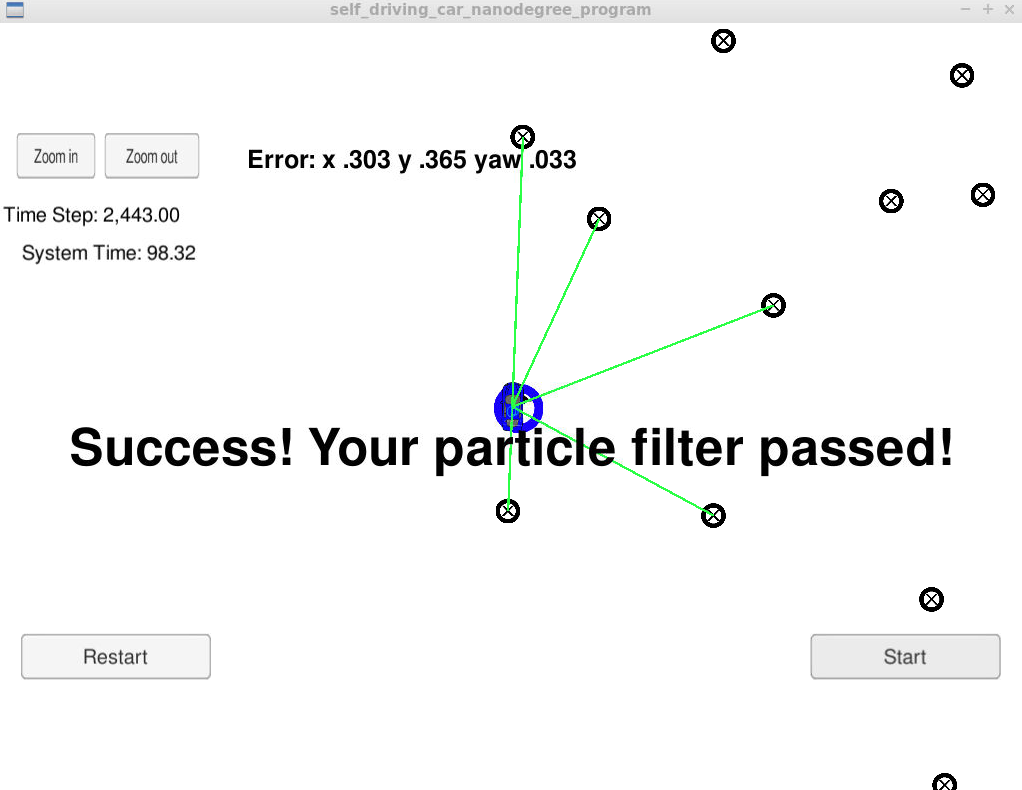
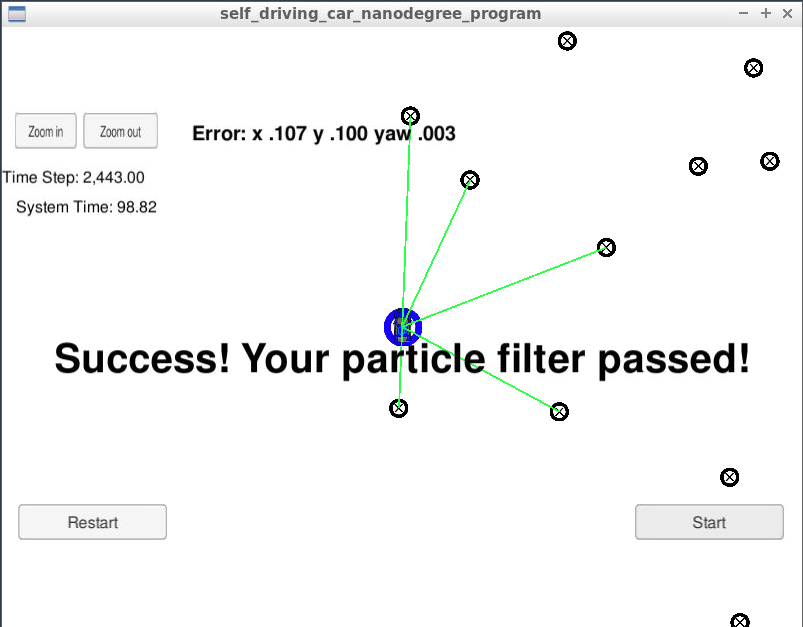
Reduce particles to 750. Update writeup for submission

diff --git a/project-kidnapped_vehicle/src/particle_filter.cpp b/project-kidnapped_vehicle/src/particle_filter.cpp
@@ -25,7 +25,7 @@ using std::normal_distribution;
 
 #define MIN_YAW 0.0001
 // Lesson 4: Particle filters - 12. Creating particles
-#define NUM_PARTICLES 1000
+#define NUM_PARTICLES 750
 
 void ParticleFilter::init(double x, double y, double theta, double std[]) {
 
@@ -177,7 +177,7 @@ void ParticleFilter::updateWeights(double sensor_range, double std_landmark[],
   double rel_dst_prt_lnd_2 = 0;
   double rel_dst_obs_lnd_2 = 0;
   double min_dist_2 = 0;
-  //Map::single_landmark_s *closest = NULL; // Cannot use because of float/double precision issue
+  //Map::single_landmark_s *closest = NULL; // Not using: Float/double precision issue at runtime
   LandmarkObs closest_lnd = { 0,0,0 };
 
 
@@ -200,7 +200,7 @@ void ParticleFilter::updateWeights(double sensor_range, double std_landmark[],
       // Lesson 5: Implementation of a particle filter - 18. Quiz: Association
       // Locate closest landmark to observation      
       // Initialize pointer to closest landmark
-      //*closest = NULL;
+      //*closest = NULL; // Not using: Float/double precision issue at runtime
       closest_lnd.id = -1;
       closest_lnd.x = 0;
       closest_lnd.y = 0;
@@ -236,8 +236,8 @@ void ParticleFilter::updateWeights(double sensor_range, double std_landmark[],
       // Lesson 5: Implementation of a particle filter - 20. Particle Weights
       // Compute weight of particle
       // xoxml: X observed minus X landmark, // yoyml: Y observed minus Y landmark
-      //double xomxl = (double)(x_map - closest->x_f);
-      //double yomyl = (double)(y_map - closest->y_f);
+      //double xomxl = (double)(x_map - closest->x_f); // Not using: Float/double precision issue at runtime
+      //double yomyl = (double)(y_map - closest->y_f); // Not using: Float/double precision issue at runtime
       double xomxl = x_map - closest_lnd.x;
       double yomyl = y_map - closest_lnd.y;
       double obs_weight = exp(-(((xomxl*xomxl)/(2*lndmrk_std_x*lndmrk_std_x)) + ((yomyl*yomyl)/(2*lndmrk_std_y*lndmrk_std_y)))) / (2*M_PI*lndmrk_std_x*lndmrk_std_y);

diff --git a/project-kidnapped_vehicle/WRITEUP.md b/project-kidnapped_vehicle/WRITEUP.md
@@ -8,22 +8,21 @@ The goals / steps of this project are the following:
 
 * Implement a particle filter
 * Localize the vehicle within the desired accuracy
-* Run within the specified time of 100 secinds 
+* Run within the specified time of 100 seconds 
 
 [Rubric](https://review.udacity.com/#!/rubrics/1965/view) points to be adressed for this writeup
 
 [//]: # (Image References)
 
-[image1]: ./output_images/success.png "Display chessboard cormers"
-[image2]: ./output_images/undistorted.png "Undistorted image"
+[image1]: ./output_images/success.png "Final successful run"
+
 ---
 
 ## 2. Libraries import & Constants definition  
 
 This section gathers imports and constants for the project.
-
 * Source https://github.com/udacity/CarND-Kidnapped-Vehicle-Project/
-* "using std::normal_distribution;" requires "#include <random>"
+* "using std::normal_distribution;" requires "#include <random>" 
 
 ---
 
@@ -54,11 +53,6 @@ This section gathers imports and constants for the project.
       * Add current index particle to new sample
       * Repeat resample wheel until desired number of particle has been created
 
-
-### 3.1. Display chessboard corners
-
-![alt text][image1]
-
 ---
 
 ## 4. Report
@@ -79,12 +73,10 @@ Optimize code:
 * Add predictions to observations loop: Failure (around 0.1 x/y 0.003 yaw error 130s)
 * Add pointer to map single_landmark_s: Failure precision issue, cannot fix
 * Avoid using square roots and recomputing sin, cos or other operations: Failure (around 0.1 x/y 0.003 yaw error 110s)
-
+* Tried to use vector index and pointers: Failure (around 0.1 x/y 0.003 yaw error 105s)
+* Revert ans change to 900 particles: Success (around 0.1 x/y 0.003 yaw error 105s)
 
 ## 4.2. Final comment
 
-This was a difficult exercice and I spent more than 3 weeks on it:
-- Coming up with the first version of the full pipeline
-
-## 5. Wayforward
-More optimization could be brought to this algorithm:
+The optimization task was challenging and led to a huge decrease of the number of lines of code.
+There must be other optimizations that I do not know to reach below 100s with 1000 particles.
